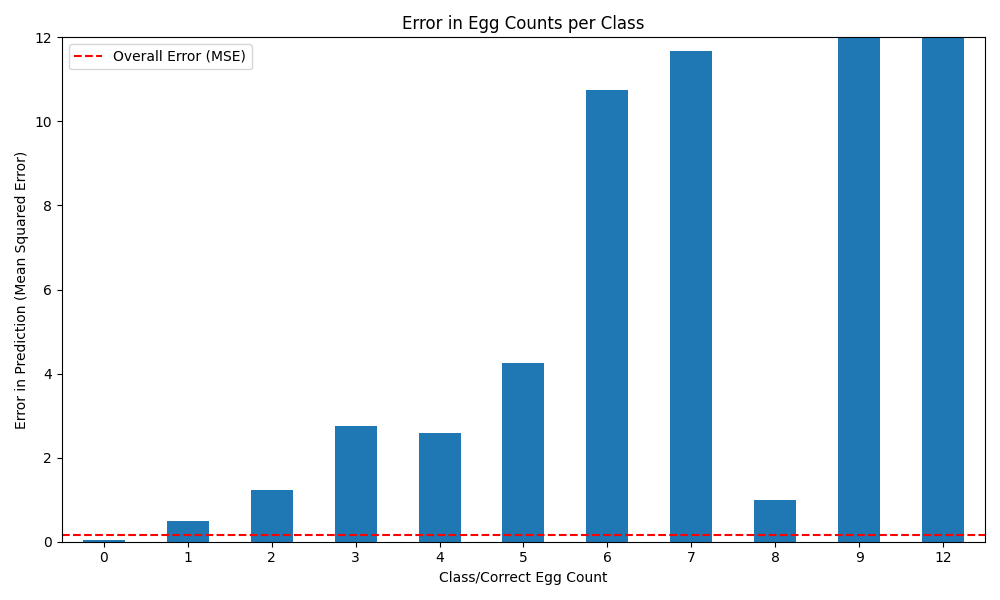
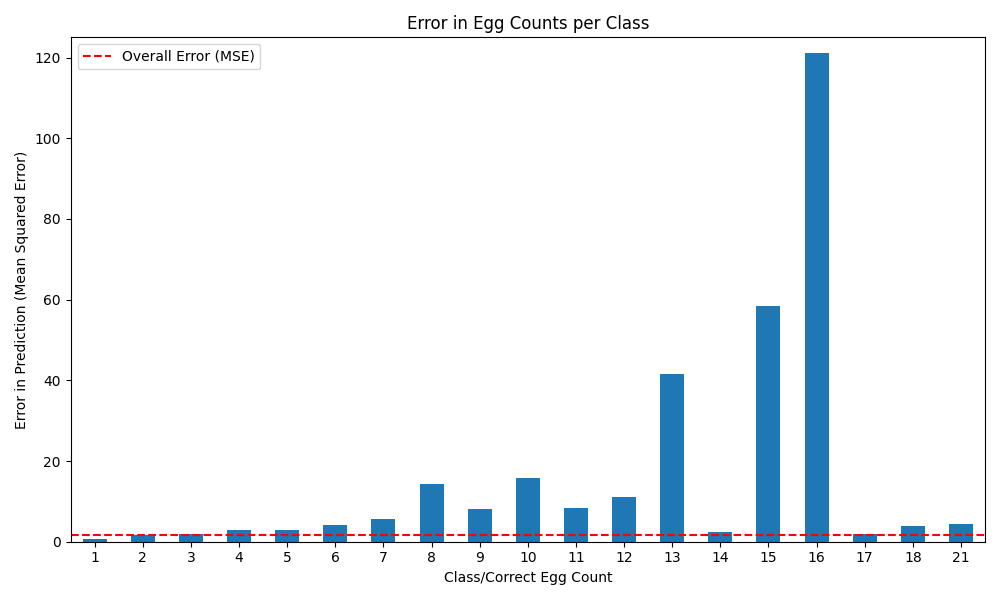
mo data v3 inference results

diff --git a/mse_calc.py b/mse_calc.py
@@ -8,10 +8,18 @@ from scipy.optimize import curve_fit
 
 # ROOT_DIR = "/home/drosophila-lab/Documents/Fecundity/AlexanderDataClasses"
 df = pd.read_csv('testing_on_marvin.csv')
-CLASS_MSES = dict({'0': 0.031185, '1': 0.483871, '2': 1.223881, 
-                   '3': 2.750000, '4': 2.590909, '5': 4.250000, '6': 10.750000, 
-                   '7': 11.666667, '8': 1.000000, '9': 64.000000, 
-                   '12': 25.000000})
+CLASS_MSES = dict({'1': 0.594294, '2': 1.542363, 
+                   '3': 1.924145, '4': 2.940270, '5': 2.818841, '6': 4.118519, 
+                   '7': 5.721519, '8': 14.361111, '9': 8.227273, '10': 15.684211,
+                   '11' :     8.333333,
+'12'  :   11.000000,
+'13' :    41.600000,
+'14' :     2.500000,
+'15' :    58.500000,
+'16' :   121.000000,
+'17':      2.000000,
+'18' :      4.000000,
+'21' :     4.500000})
 
 def get_class_counts():
     counts = dict()
@@ -43,7 +51,7 @@ mse_by_counts.plot(kind='bar')
 plt.title('Error in Egg Counts per Class')
 plt.xlabel('Class/Correct Egg Count')
 plt.ylabel('Error in Prediction (Mean Squared Error)')
-plt.ylim(0, 12)
+plt.ylim(0, 125)
 plt.xticks(rotation=0)
 plt.axhline(y=total_mse, color='red', linestyle='--', label='Overall Error (MSE)')
 plt.legend()

diff --git a/inference_generate_csv.py b/inference_generate_csv.py
@@ -32,12 +32,12 @@ def predict_egg_count(image_path):
    
     return egg_count
 
-ROOT_DIR = "/home/drosophila-lab/Documents/Fecundity/5-1-cap-800x800-sliced-Marvin"
+ROOT_DIR = "/home/drosophila-lab/Documents/Fecundity/CNN-Classifier/5-1-cap-800x800-sliced-Marvin"
 with open("testing_on_marvin.csv", "w", newline='') as file:
     writer = csv.writer(file)
     writer.writerow(['ImagePath', 'Bot', 'Human'])
     for file in os.listdir(ROOT_DIR):
-        if 'eggs' not in file:
+        if 'eggs' not in file or 'unsure' in file or 'eggs0' in file:
             continue
         label = file.split('eggs')[1].split('count')[0]
         predicted_eggs = predict_egg_count(f"{ROOT_DIR}/{file}")
